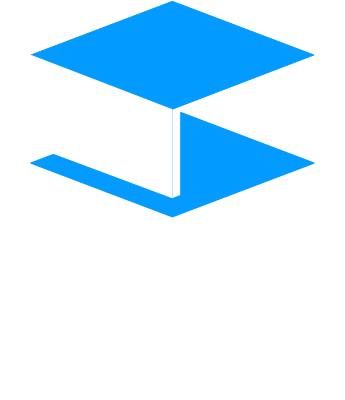
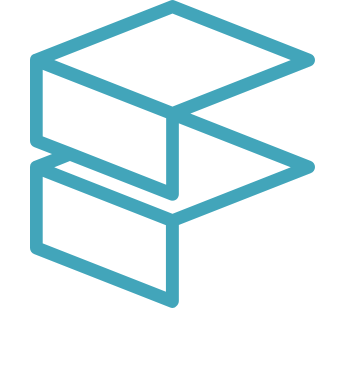
27848 Rebranding (#694)
* 27848 Theme Accent Changes

* 27848 Replace Logos I

* 27848 Replace Logos II

* 27848 Replace Logos III

* 27848 Replace Logos IV

* 27848 Replace Logos V

* 27848 Replace Logos VI

* 27848 Replace Splash Screen

* 27848 Auth Company Logo Replacement

Changed region(s): [[0.087, 0.0, 0.9275, 0.798]]

diff --git a/assets/css/_theme.css b/assets/css/_theme.css
@@ -10,9 +10,9 @@
     --core-primary-4: #5B606F;
     --core-primary-5: #ACB2C0;
 
-    --accent-primary: #0A8CF4;
-    --accent-primary-1: #087DDB;
-    --accent-primary-2: #398BFF;
+    --accent-primary: #42A5BA;
+    --accent-primary-1: #36899B;
+    --accent-primary-2: #36899B;
 
     --accent-positive: #2CC13F;
     --accent-positive-1: #27AE38;

diff --git a/src-built-in/components/authentication/authentication.css b/src-built-in/components/authentication/authentication.css
@@ -1,9 +1,9 @@
 /* TODO: Use Finsemble CSS variables */
 
 .fsbl-logo {
-    content: url("../../../assets/img/ciq-banner-black-100x25.png");
+    content: url("../../../assets/img/cosaic-banner-100x20.png");
     width: 100px;
-    height: 25px;
+    height: 20px;
 }
 
 .fsbl-login-logo {
